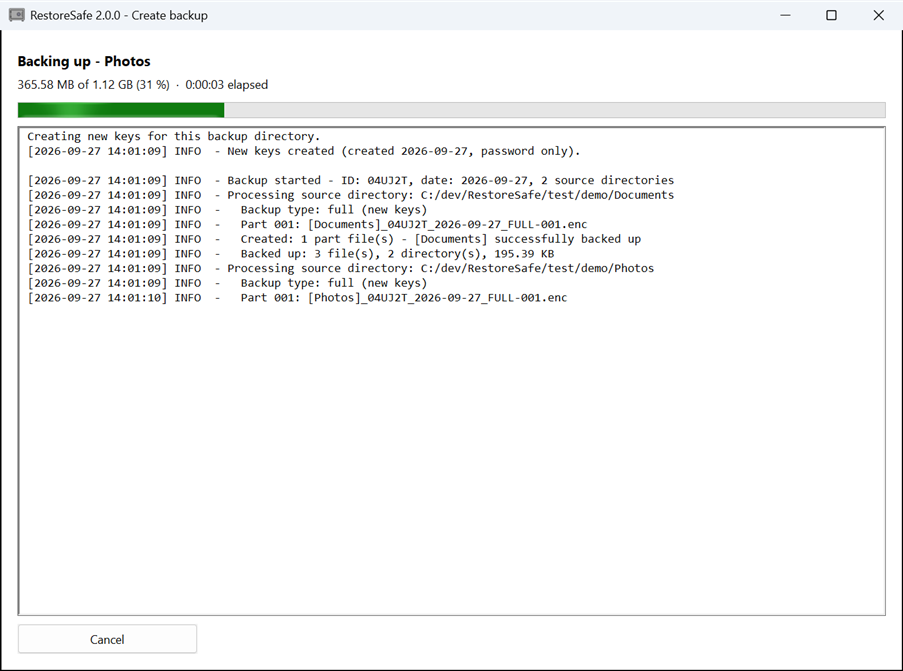
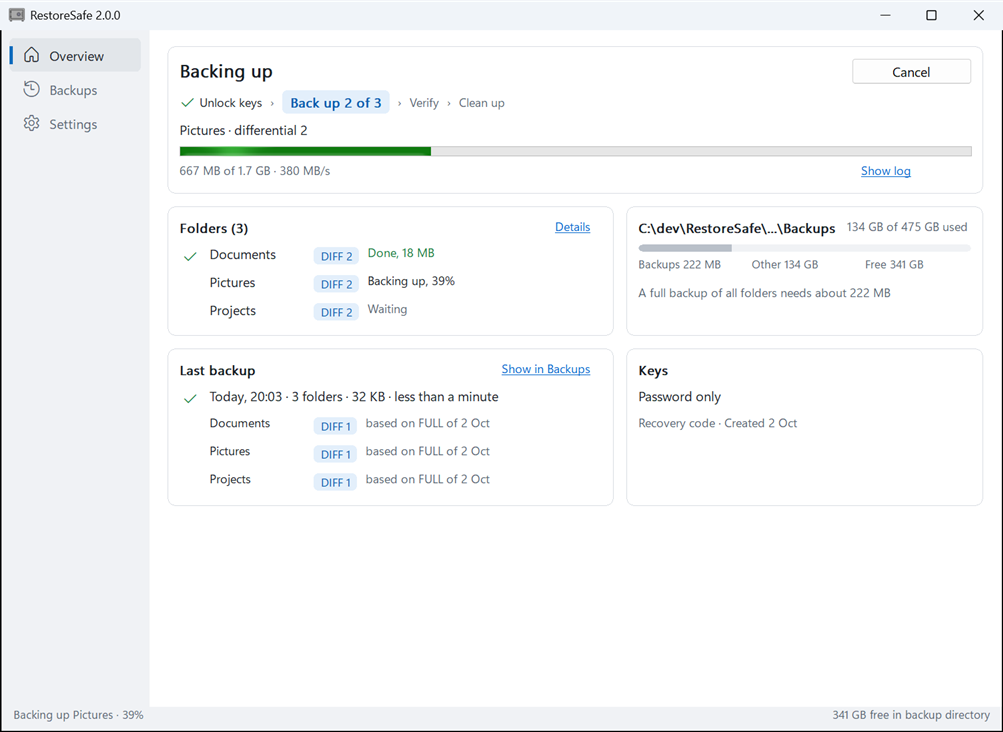
Phase 10d: README, CHANGELOG and config sample for the new UI
New README screenshots (Overview, backup plan, running backup, Backups
page, restore wizard) from a neutral demo setup; the old ones are removed.
A backup run shorter than a second now records its duration (rounded up),
so its header and the Last backup card show it.

diff --git a/internal/workflow/backup/workflow.go b/internal/workflow/backup/workflow.go
@@ -427,9 +427,10 @@ func backupDirectory(
 	return setStats{Skipped: res.Stats.Skipped + res.Stats.Stale, Bytes: partsSize(res.Parts)}, nil
 }
 
-// secondsSince returns the whole seconds since start.
+// secondsSince returns the seconds since start, rounded up, so that a run
+// shorter than a second still records a duration (0 means none recorded).
 func secondsSince(start time.Time) int64 {
-	return int64(time.Since(start) / time.Second)
+	return int64((time.Since(start) + time.Second - 1) / time.Second)
 }
 
 // setStats is what backupDirectory reports about the set it wrote.

diff --git a/internal/logging/facts.go b/internal/logging/facts.go
@@ -28,7 +28,7 @@ type Fact struct {
 	Bytes int64 `json:"bytes,omitempty"`
 	// Removed counts the backup sets a cleanup removed.
 	Removed int `json:"removed,omitempty"`
-	// Seconds is the duration of a backup run.
+	// Seconds is the duration of a backup run, rounded up to whole seconds.
 	Seconds int64 `json:"seconds,omitempty"`
 	// Error is the reason of a failure.
 	Error string `json:"error,omitempty"`

diff --git a/README.md b/README.md
@@ -23,22 +23,25 @@ RestoreSafe is a standalone Windows 64-bit backup tool that backs up your direct
 
 ## Screenshots
 
-The start screen runs a health check of the configuration, the directories, the YubiKey, and the existing backups:
+The Overview answers "are my folders protected?": the status at the top, then the folders, the backup directory, the last backup, and the keys:
 
-<img src="docs/images/Screenshot_v2.0.0_home.png" alt="RestoreSafe start screen with the startup health check">
+<img src="docs/images/Screenshot_v2.0.0_overview.png" alt="Overview with the status, the folders, the backup directory, the last backup, and the keys">
 
-Before a backup starts, the preflight shows what RestoreSafe will do, including whether each directory gets a full or a differential backup:
+**Back up now…** shows the plan first: full or differential per folder and why, the space, how you unlock, and what retention removes afterwards:
 
-<img src="docs/images/Screenshot_v2.0.0_preflight.png" alt="Backup preflight with differential backups and the start choices">
+<img src="docs/images/Screenshot_v2.0.0_plan.png" alt="Backup plan with differential backups and the start choices">
 
-While it runs, RestoreSafe shows the progress and the log; Cancel stops it and removes the unfinished backup set:
+While it runs, the Overview shows the steps, the progress, the speed, and the time left; the Folders card follows each folder:
 
-<img src="docs/images/Screenshot_v2.0.0_running.png" alt="Backup in progress with progress bar and log">
+<img src="docs/images/Screenshot_v2.0.0_running.png" alt="Backup in progress on the Overview">
 
-To restore or verify, choose a whole backup run or a single backup set; for a differential, RestoreSafe reads its full backup too:
+The Backups page lists every backup run with its folders, types, sizes, and status, and the log of the selected run:
 
-<img src="docs/images/Screenshot_v2.0.0_selection.png" alt="Choosing the backup to restore">
+<img src="docs/images/Screenshot_v2.0.0_backups.png" alt="Backups page with runs, backup sets, and the log">
 
+Restoring is a wizard: when, which folders, where to, and a last check of what will happen:
+
+<img src="docs/images/Screenshot_v2.0.0_restore.png" alt="Restore wizard, last page before the restore starts">
 
 ## Features
 
@@ -65,7 +68,7 @@ To restore or verify, choose a whole backup run or a single backup set; for a di
 
 ### Usability
 - Portable, standalone `.exe` - no runtime dependencies
-- Windows application: preflight summary before every operation, progress with a live log, Cancel at any time, and a result screen
+- Windows application: an Overview that shows at a glance whether your folders are protected and what to do if not, a backup plan before every backup, progress with speed and time left, Cancel at any time, a Backups page with every run and its log, a restore wizard, and a Settings page with Reload
 - Operable by keyboard (access keys, Enter, Esc) and readable by screen readers
 - Custom config path via `-config` argument
 - One password entry and at most one YubiKey touch per backup run
@@ -89,7 +92,7 @@ To restore or verify, choose a whole backup run or a single backup set; for a di
    "C:\Tools\RestoreSafe\RestoreSafe.exe" -config="D:\Configs\home-backup.yaml"
    ```
 
-   The start screen shows which configuration is loaded. RestoreSafe reads `config.yaml` at start; after changing it, restart RestoreSafe.
+   The Settings page shows which configuration is loaded. After changing `config.yaml`, click **Reload** on the Settings page.
 3. In `config.yaml` edit at least parameters `source_directories` and `backup_directory`.
 
    For any other parameters you may keep the default values or adjust them according to your needs. Every parameter is explained in `config-SAMPLE.yaml`.
@@ -120,7 +123,7 @@ To restore or verify, choose a whole backup run or a single backup set; for a di
 | `recovery_code` | `false` | Create a recovery code when new keys are created |
 | `password_min_length` | `12` | Minimum password length for new keys (at least 8) |
 | `verify_after_backup` | `false` | Re-read and check each backup right after writing it |
-| `reminder_days` | `7` | Remind on the start screen when the newest backup is older than this many days (0 = no reminder) |
+| `reminder_days` | `7` | Remind on the Overview when the newest backup is older than this many days (0 = no reminder) |
 
 ## Updating
 
@@ -140,31 +143,38 @@ RestoreSafe 2.0 uses a new backup format. **2.0 cannot restore backups created b
 
 ## Usage
 
-Double-click RestoreSafe.exe. The start screen shows the configuration, the backup directory, and the startup health check. **Create backup**, **Restore backup**, and **Verify backup** are available when the health check finds nothing that blocks them; otherwise the line below the check says why. Fix the problem, then click **Recheck**.
+Double-click RestoreSafe.exe. The window has three pages, chosen in the sidebar or with `Ctrl+1` to `Ctrl+3`:
+
+- **Overview** - whether your folders are protected. The status at the top is green when every folder has a recent complete backup, amber for a warning (e.g. your last backup is older than `reminder_days`), and red for an error (e.g. the backup directory is not reachable); it names the problem and offers the action that fixes it. **Check details** shows the full health check. Below: your folders with their newest backup and the type of the next one, the backup directory and its free space, the last backup, and your keys.
+- **Backups** - every backup run with its backup sets, and the log of the selected run.
+- **Settings** - what `config.yaml` says, in words; **Edit config.yaml** and **Reload**.
+
+RestoreSafe checks your backups when it starts, after every operation, with **Check again** or `F5`, and when you return to it after five minutes.
 
 ### Create a backup
-Click **Create backup**. The preflight summary shows, for every source directory, whether it gets a full or a differential backup and why (see [Screenshots](#screenshots)). For a differential, the needed space is an estimate of the files changed since the full backup; the summary also shows the size if everything were stored again.
+Click **Back up now…** (`Ctrl+B`). The backup plan shows, for every folder, whether it gets a full or a differential backup and why, the space needed (for a differential an estimate of the files changed since the full backup), how you will unlock, and what retention removes afterwards (see [Screenshots](#screenshots)). Then choose:
 
-Then choose:
-
-- **Start backup** - start the backup as planned
-- **Full backup** - full backup for every directory instead (offered when a differential is planned)
-- **New keys + full backup** - create new keys and full backups (to change your password, replace a lost YubiKey, or get a new recovery code; see [How your backups are locked](#how-your-backups-are-locked))
+- **Start** - back up as planned
+- **Full backup instead** - full backups for every folder (offered when a differential is planned); **Back to plan** returns
+- **New keys + full backup…** - create new keys and full backups (to change your password, replace a lost YubiKey, or get a new recovery code; see [How your backups are locked](#how-your-backups-are-locked))
 - **Cancel**
 
 Then enter your password and/or confirm the Windows Security prompt of your YubiKey. On your first backup, RestoreSafe creates your keys first (see [What you will see](#what-you-will-see)).
 
-While the backup runs, the window shows the progress and the log. **Cancel** stops it: backup sets completed so far are kept, the one being written is removed, and old backups are not cleaned up. Closing the window during a backup asks first and then does the same.
+While the backup runs, the Overview shows the steps, the folder being backed up, the progress, the speed, and the time left; the taskbar button shows the progress too. **Cancel** asks, then stops: folders backed up so far are kept, the one being written is removed, and old backups are not cleaned up. Closing the window during a backup asks first and then does the same. The result stays on the Overview until you click **Done**.
 
 ### Restore a backup
-Click **Restore backup** and choose what to restore: a backup run (all its backup sets) or a single backup set. Then choose the destination folder (**Browse...**, or restore into the backup directory itself), check the preflight, click **Start restore**, and enter your password and/or confirm your YubiKey.
+On the Backups page, select a backup run or one of its folders and click **Restore…** (or double-click it). The restore wizard asks:
 
-Every backup is a restore point. Restoring a differential needs the full backup of the same chain (same ID in the file name); RestoreSafe finds it automatically and shows it in the preflight. Files deleted before the differential was created are not restored.
+1. **When** - the backup run to restore from.
+2. **Folders** - which of its folders. Whole folders are restored; to get a single file back, restore its folder to a new place and copy the file.
+3. **Destination** - where to (**Browse…**, or restore into the backup directory itself). RestoreSafe creates one folder per restored folder, named like the backed-up folder; these folders must not exist yet, and the page checks that and the free space while you type.
+4. **Check** - what will be read and created. Nothing is written before you click **Restore…** and enter your password and/or confirm your YubiKey.
 
-RestoreSafe creates one folder per backup set in the destination, named like the backed-up folder; these folders must not exist yet (the preflight checks it). If a file does not match its checksum, the restore stops and reports that it is incomplete.
+Every backup is a restore point. Restoring a differential needs the full backup of the same chain (same ID in the file name); RestoreSafe finds it automatically and shows it in the wizard. Files deleted before the differential was created are not restored. If a file does not match its checksum, the restore stops and reports which folder is incomplete.
 
 ### Verify a backup
-Click **Verify backup**, choose a backup run or a single backup set, and click **Start verification**. RestoreSafe decrypts everything and checks every file against its checksum - without writing any files to disk. Verifying a differential checks the complete restore point, including the unchanged files in its full backup.
+On the Backups page, select a backup run or one of its folders and click **Verify…**. RestoreSafe decrypts everything and checks every file against its checksum - without writing any files to disk. Verifying a differential checks the complete restore point, including the unchanged files in its full backup. The Backups page shows the result ("Verified" or "Damaged") for each backup set.
 
 ### Excluding files and unreadable files
 Use `exclude` in `config.yaml` to leave out files and directories (case-insensitive):
@@ -240,7 +250,7 @@ Turn the extras on in `config.yaml` with `yubikey_spare: true` and `recovery_cod
 
 **Every backup after that.** Enter your password once and/or touch your YubiKey once. RestoreSafe reuses your keys automatically, for differential **and** new full backups, so your spare YubiKey can stay in its safe place.
 
-**Restore and verify.** Enter your password and/or touch whichever of your YubiKeys you have. If your keys have a recovery code, RestoreSafe asks whether to unlock with your password/YubiKey or with the recovery code.
+**Restore and verify.** Enter your password and/or touch whichever of your YubiKeys you have. If your keys have a recovery code, the unlock dialog offers **Use your recovery code instead**.
 
 ### When RestoreSafe creates new keys
 
@@ -248,9 +258,9 @@ New keys mean: a new master key, new boxes, and a new full backup of every sourc
 
 - you run your first backup, or the backup directory contains no RestoreSafe 2.0 backup anymore (for example because you deleted all backups);
 - you change `authentication_mode`, `yubikey_spare`, or `recovery_code` in `config.yaml`;
-- you click **New keys + full backup** in the backup summary, to change your password, replace a lost YubiKey, or get a new recovery code.
+- you click **New keys + full backup…** in the backup plan, to change your password, replace a lost YubiKey, or get a new recovery code.
 
-The backup summary always tells you in advance when new keys will be created and why.
+The backup plan always tells you in advance when new keys will be created and why; so does the Keys card on the Overview.
 
 **Important:** new keys come with new unlock methods. Your old password, old YubiKey registrations, and old recovery code do **not** open backups made with the new keys. They still open your older backups, until retention deletes them.
 
@@ -417,14 +427,14 @@ This compiles `RestoreSafe.exe` (a Windows application with the icon, manifest, 
 |---|---|
 | `cmd/restoresafe` | Entry point of `RestoreSafe.exe` |
 | `cmd/yubidiag` | YubiKey diagnostic tool (see below) |
-| `internal/gui` | The window application; `internal/gui/win32` wraps the Windows API it uses |
+| `internal/gui` | The window application: `gui/flow` (operation lifecycle and questions), `gui/view` (what every page and dialog shows, as plain Go), `gui/widget` (drawn controls and the theme), `gui/win32` (the Windows API it uses) |
 | `internal/workflow` | Backup, restore, verify, and the startup health check, plus what they share (unlocking, restore points); `workflow/interact` is the contract between the workflows and the GUI |
 | `internal/format` | The backup format: TAR archive, container, manifest, set writer, inventory, and file names |
 | `internal/security` | Encryption and key derivation (`cryptox`), recovery codes, YubiKey through Windows WebAuthn |
 | `internal/config`, `logging`, `fsx`, `buildinfo` | Configuration, log files, file system helpers, version |
 | `build/windows` | Icon, application manifest, and version information embedded by `build.bat` |
 | `docs` | Specifications and the GUI test checklist |
-| `scripts/gui-test` | PowerShell UI automation for the manual GUI checklist |
+| `scripts/gui-test` | PowerShell UI automation: smoke test, status conditions, access keys (see its README) |
 
 Imports point downward only (`gui` → `workflow` → `format` → `security`, ...); `go test ./internal/architecture` checks this.
 

diff --git a/CHANGELOG.md b/CHANGELOG.md
@@ -9,16 +9,23 @@ This project follows [Semantic Versioning](https://semver.org/spec/v2.0.0.html).
 **Breaking change:** RestoreSafe 2.0 uses a new backup format. It cannot restore backups created by 1.x, and 1.x cannot restore 2.0 backups. Keep RestoreSafe 1.0.2 to restore your 1.x backups; 2.0 never modifies or deletes them. Start from the new `config-SAMPLE.yaml`. See "Updating from RestoreSafe 1.x to 2.0" in the README.
 
 ### Added
-- Windows application instead of the console menu: start screen with the startup health check, preflight summary before every operation, progress with a live log, Cancel at any time (completed backup sets are kept, the unfinished one is removed), and a result screen. Backups to restore or verify are chosen in a tree of backup runs and sets; the restore destination has a folder picker. Operable by keyboard and readable by screen readers.
+- Windows application instead of the console menu, built around the question "are my folders protected?":
+  - **Overview**: the status (protected, warning, error, or no backup yet) with the action that fixes a problem, the folders with their newest backup and the type of the next one, the backup directory and its free space, the last backup, and the keys. The backups are checked at start, after every operation, with **Check again** or F5, and when you return after five minutes.
+  - **Backup plan** before every backup: full or differential per folder and why, the space, how you unlock, and what retention removes if the backup succeeds.
+  - Progress on the Overview with steps, speed, and time left, also on the taskbar button; Cancel at any time (completed backup sets are kept, the unfinished one is removed); a result card that says what happened per folder.
+  - **Backups** page: every backup run with its sets, types, sizes, and status (complete, verified, skipped files, incomplete, damaged), the log of the selected run, and Restore and Verify.
+  - **Restore wizard**: when, which folders, where to, and a last check; it checks the destination folders and the free space while you type.
+  - **Settings** page: the configuration in words, **Edit config.yaml**, and **Reload** (no restart needed after a change).
+  - Operable by keyboard (access keys, Ctrl+1 to Ctrl+3, Ctrl+B, F5) and readable by screen readers; follows the display scaling of each monitor and Windows high contrast.
 - Differential backups: RestoreSafe chooses automatically between a full and a differential backup per source directory and shows the decision and reason before the backup starts. A differential stores only files that are new or changed since the last full backup (size, modification time, and NTFS change time are compared; unchanged files are not read).
-- **Full backup** in the backup preflight forces full backups.
+- **Full backup instead** in the backup plan forces full backups.
 - Restore and verify of differential backups; a differential is restored together with its full backup, and the link between them is checked before any file is written.
 - Encrypted manifest in every backup: restore and verify check every file against its SHA-256 checksum.
 - Restore of creation and modification times and of the read-only, hidden, and system attributes.
 - Keys with multiple unlock methods: optional spare YubiKey (`yubikey_spare`) and recovery code (`recovery_code`). Either registered YubiKey unlocks the backups; the recovery code unlocks them without password or YubiKey.
-- **New keys + full backup** in the backup preflight creates new keys (e.g. to change the password or replace a lost YubiKey); older backups keep opening with the old credentials.
+- **New keys + full backup…** in the backup plan creates new keys (e.g. to change the password or replace a lost YubiKey); older backups keep opening with the old credentials.
 - `password_min_length` (default 12, at least 8) for new passwords.
-- `reminder_days` (default 7, 0 = off): the start screen reminds you when the newest backup is older. RestoreSafe checks it only while it is open.
+- `reminder_days` (default 7, 0 = off): the Overview reminds you when the newest backup is older. RestoreSafe checks it only while it is open.
 - `exclude` patterns for files and directories to leave out of backups.
 - `on_unreadable_file: skip` backs up everything else when a file cannot be read and lists the file as a warning; older backups of that directory are kept.
 - `differential` configuration section (`enabled`, `full_backup_interval_days`, `max_size_percent`, `retention_keep_differentials`).

diff --git a/docs/GUI-TEST-CHECKLIST.md b/docs/GUI-TEST-CHECKLIST.md
@@ -21,6 +21,7 @@ Found while building; they are not defects of the run. Decide for each whether i
 |---|---|
 | OV-1, RW-8 | "Show files" for skipped files is not there: the run's log names the files. Restore results show the files "not in this backup", not the "older version" files (no fact records them). |
 | OV-2 | When the check blocks a backup (e.g. a missing folder), the hero offers its fix actions (Check again, Edit config) instead of a disabled **Back up now…**; `Ctrl+B` does nothing then. |
+| BR-1 | During a backup, the Folders card shows "Done, <size>" with the size of the folder read, not of the set written: for a differential it is much larger than the size on the Backups page. |
 | CR-1 | The unlock dialog does not name the key set by its date; when a selection spans older keys, the workflow's notice above the field says which keys. |
 | RW-1 | The wizard is resizable; its progress page leaves empty space below the card. |
 | 15 | Turning high contrast on or off rebuilds the pages; a dialog open at that moment keeps its colors until it closes. |
